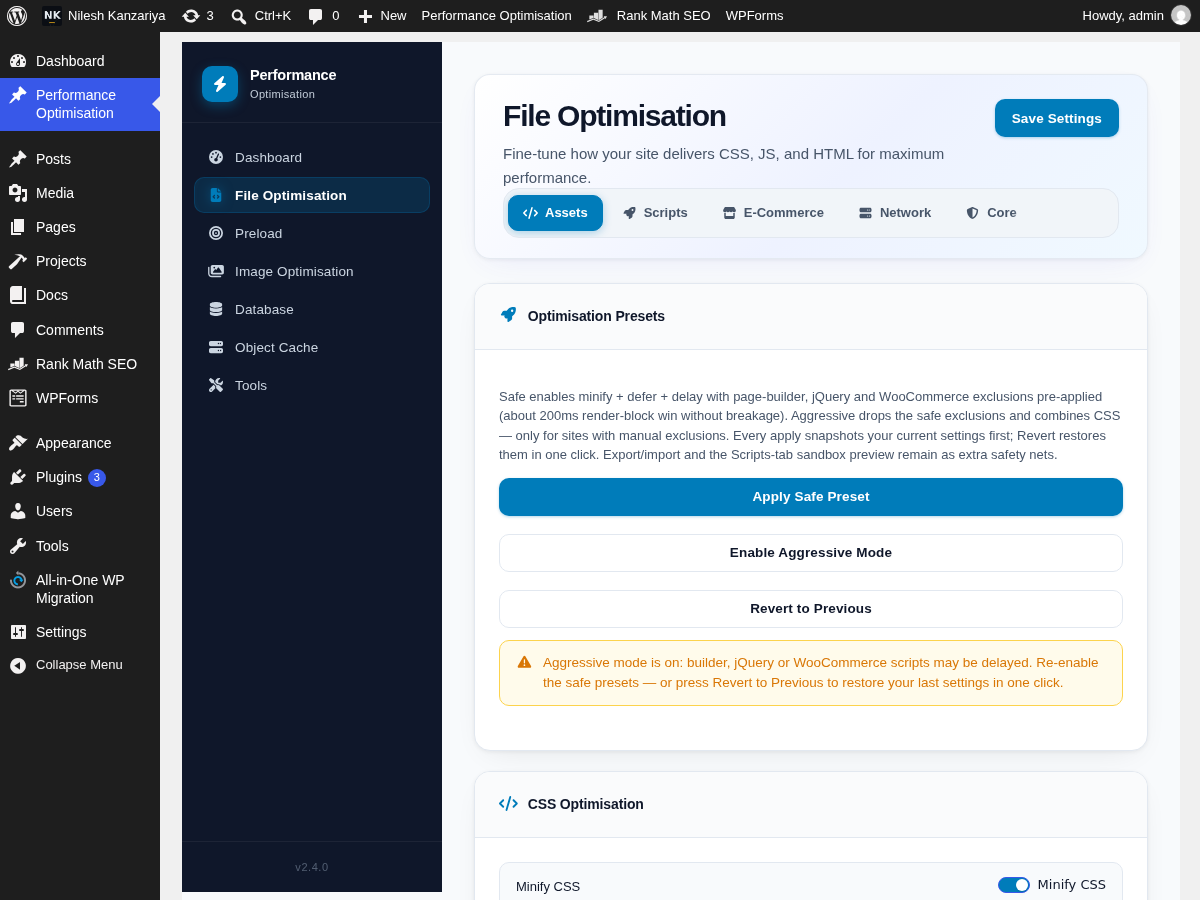
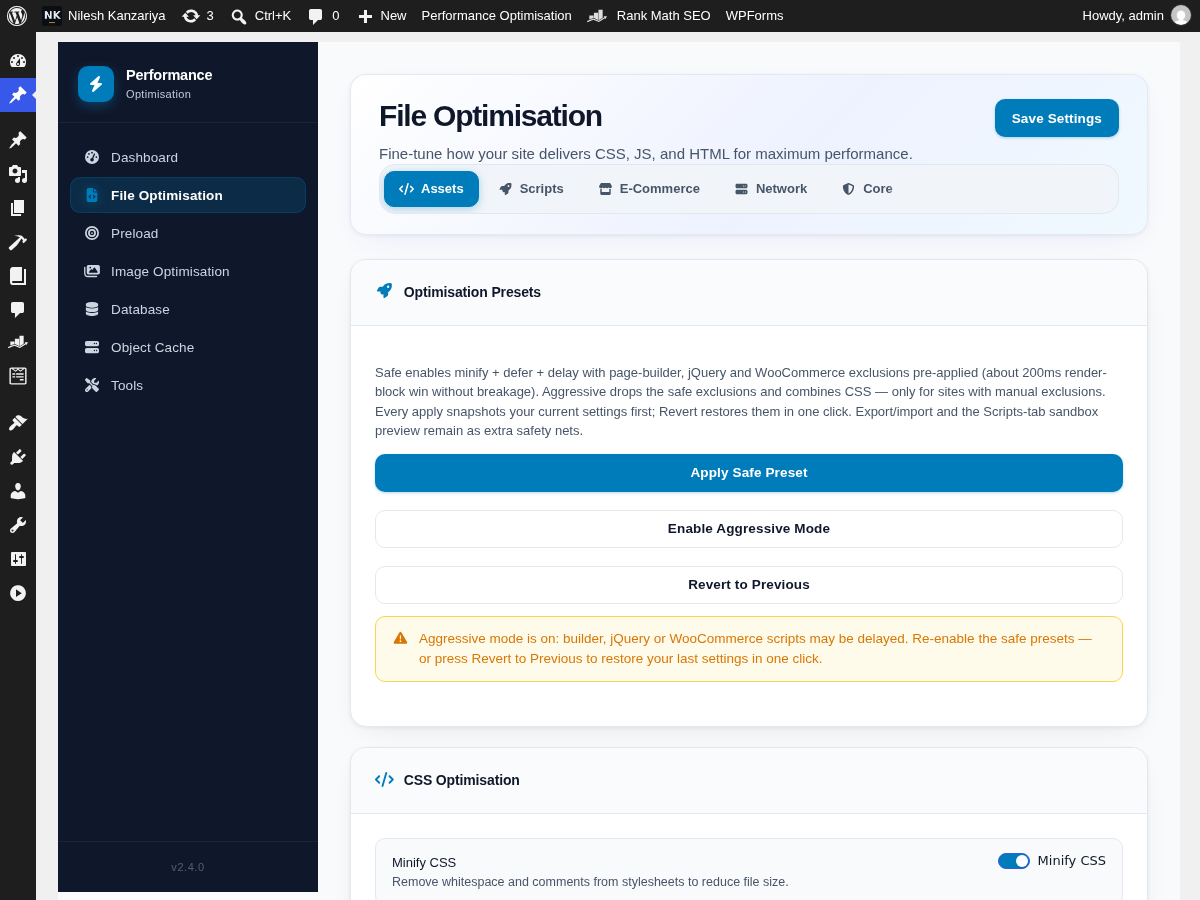
Phase B: recapture folded admin navigation

Changed region(s): [[0.0, 0.0311, 0.9558, 1.0], [0.8325, 0.9333, 0.925, 0.9956], [0.8017, 0.2178, 0.8325, 0.2489]]

diff --git a/docs/growth/WORDPRESS-ORG.md b/docs/growth/WORDPRESS-ORG.md
@@ -125,9 +125,9 @@ Phase B adds real visual assets for the existing product without changing functi
 
 ### Screenshot evidence
 
-Screenshots were captured from the real WordPress installation with Playwright/Chromium. The responsive QA set was checked at 1280×800, 1024×768, and 390×844. The captured flows reported no console errors, horizontal overflow, or secret values. Live domain text was replaced with `example.com`; the captures show no API keys, passwords, authentication headers, private customer information, or unsaved-change dialogs. The readme now has seven matching screenshot captions.
+Screenshots were captured from the real WordPress installation with Playwright/Chromium. The WordPress navigation was collapsed for the capture, and the unrelated `all-in-one-wp-migration` plugin was deactivated on the live site at the user's request so it would not appear in the product screenshots. No plugin source or WordPress behavior was changed by that site-level cleanup.
 
-The published assets are real UI captures; the banner and icon are presentation assets only and do not imply performance guarantees.
+The responsive QA set was checked at 1280×800, 1024×768, and 390×844. The captured flows reported no console/page errors, horizontal overflow, visible notices, or secret values. Live domain text was replaced with `example.com`; the captures show no API keys, passwords, authentication headers, private customer information, or unsaved-change dialogs. The readme now has seven matching screenshot captions.
 
 ## Validation and publication status
 

diff --git a/docs/maintenance/PRODUCT-DESIGN-BACKLOG.md b/docs/maintenance/PRODUCT-DESIGN-BACKLOG.md
@@ -53,7 +53,7 @@
 - **Status:** Completed in Phase B (`2026-09-25`).
 - **Delivered:** `assets/screenshot-1.png` through `assets/screenshot-7.png`, all 1200×900 captures of the current live admin UI.
 - **Coverage:** Dashboard, File Optimisation, Image Optimisation, Performance Audit/PageSpeed, Database Cleanup, Object Cache/Redis, and Preload Settings.
-- **Validation:** Captured with Playwright at 1280×800, 1024×768, and 390×844; no console errors, horizontal overflow, visible notices, or unsaved-change dialogs in the published assets. Live URLs were replaced with `example.com`; no API keys, passwords, or credentials are visible.
+- **Validation:** Captured with Playwright at 1280×800, 1024×768, and 390×844; no console/page errors, horizontal overflow, visible notices, or unsaved-change dialogs in the published assets. The WordPress navigation was collapsed for the captures, and the unrelated `all-in-one-wp-migration` plugin was deactivated on the live site at the user's request. Live URLs were replaced with `example.com`; no API keys, passwords, or credentials are visible.
 - **Readme alignment:** Seven screenshot captions were added to `readme.txt` and match the captured feature screens.
 
 ## Separation Rationale
